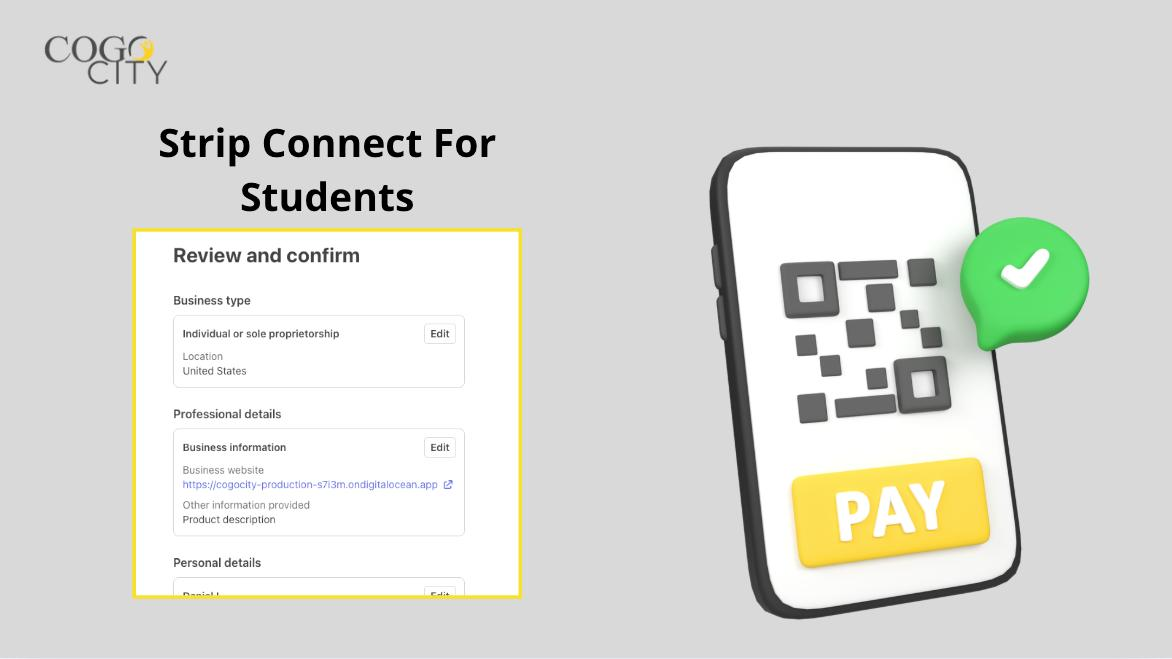
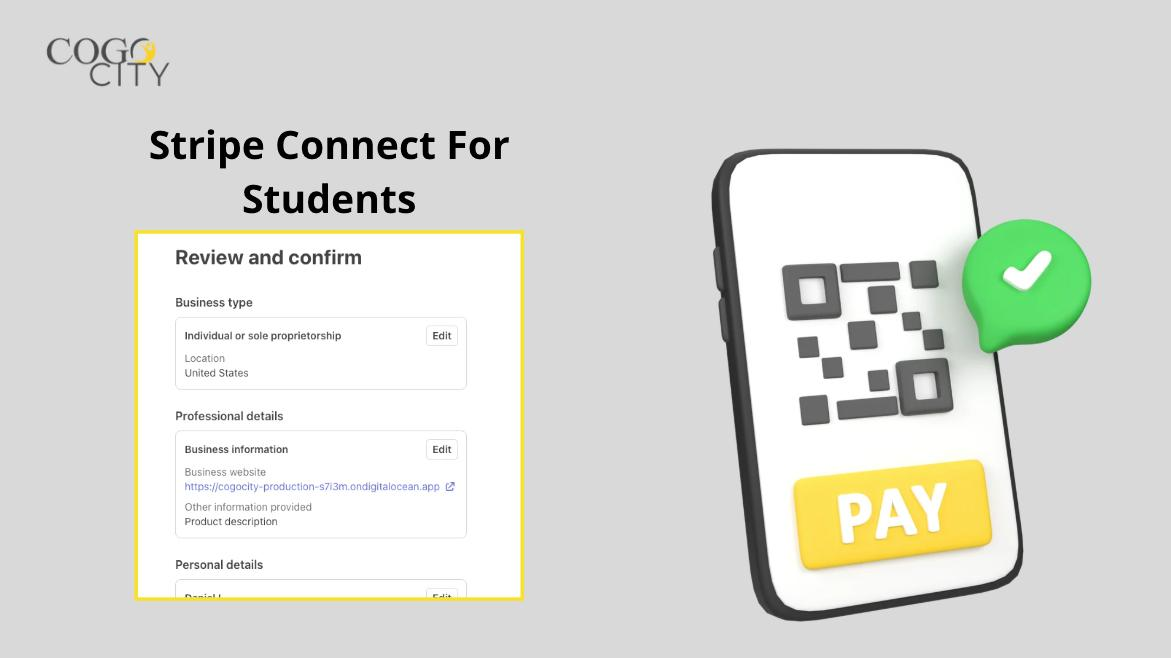
Replace Stripe Connect tutorial poster

diff --git a/index.html b/index.html
@@ -971,7 +971,7 @@ const HOW_IT_WORKS_TUTORIALS = [
     role: 'Stripe Connect Tutorial',
     title: 'Set Up Stripe Connect to Receive Payments | Cogo City',
     videoUrl: 'https://youtu.be/BNIQWA8E5rA',
-    posterUrl: 'assets/how-it-works-stripe-connect-tutorial.jpg?v=20260728c',
+    posterUrl: 'assets/how-it-works-stripe-connect-tutorial.jpg?v=20260729a',
     description: 'To receive payments for completed projects on Cogo City, you will need to connect a Stripe Connect account. The setup is quick, secure, and typically takes just a few minutes. Stripe is one of the world\'s most trusted payment platforms, used by millions of businesses to process payments securely. Your banking and payment information is entered directly into Stripe and is never stored or accessible by Cogo City. Once your Stripe account is connected, you will be ready to receive payments for every completed project you finish through CoGo City.',
     ctaLabel: 'Set Up Stripe Connect',
     ctaAction: `openStripeConnectTutorialSetup()`
